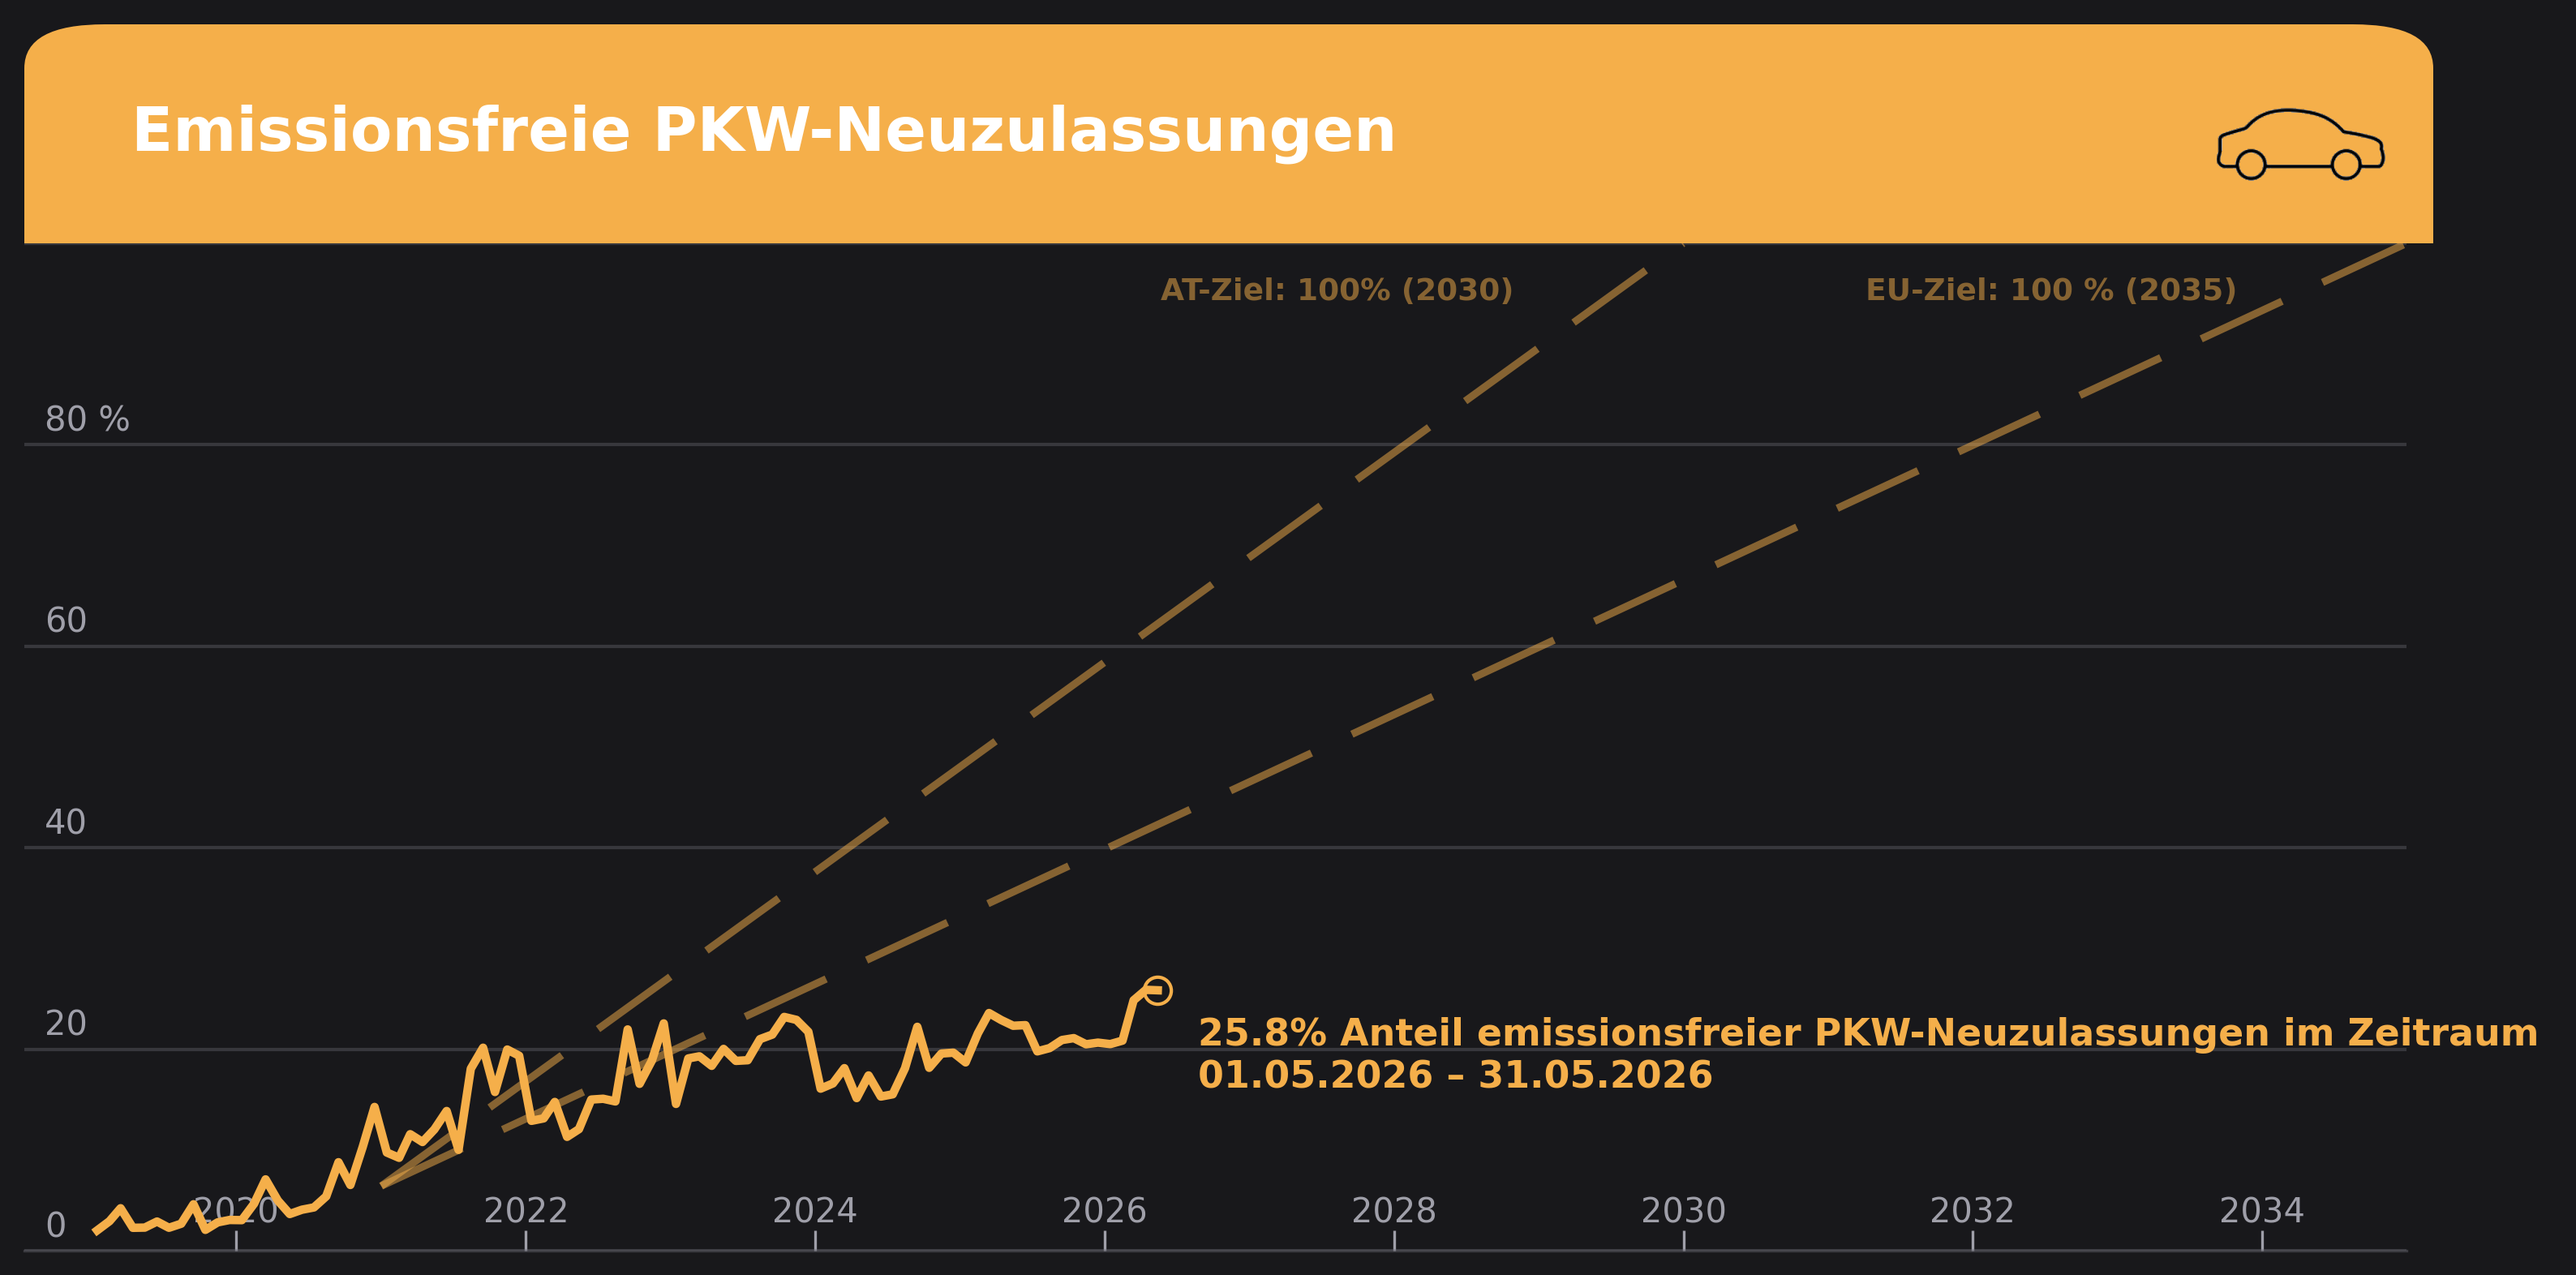
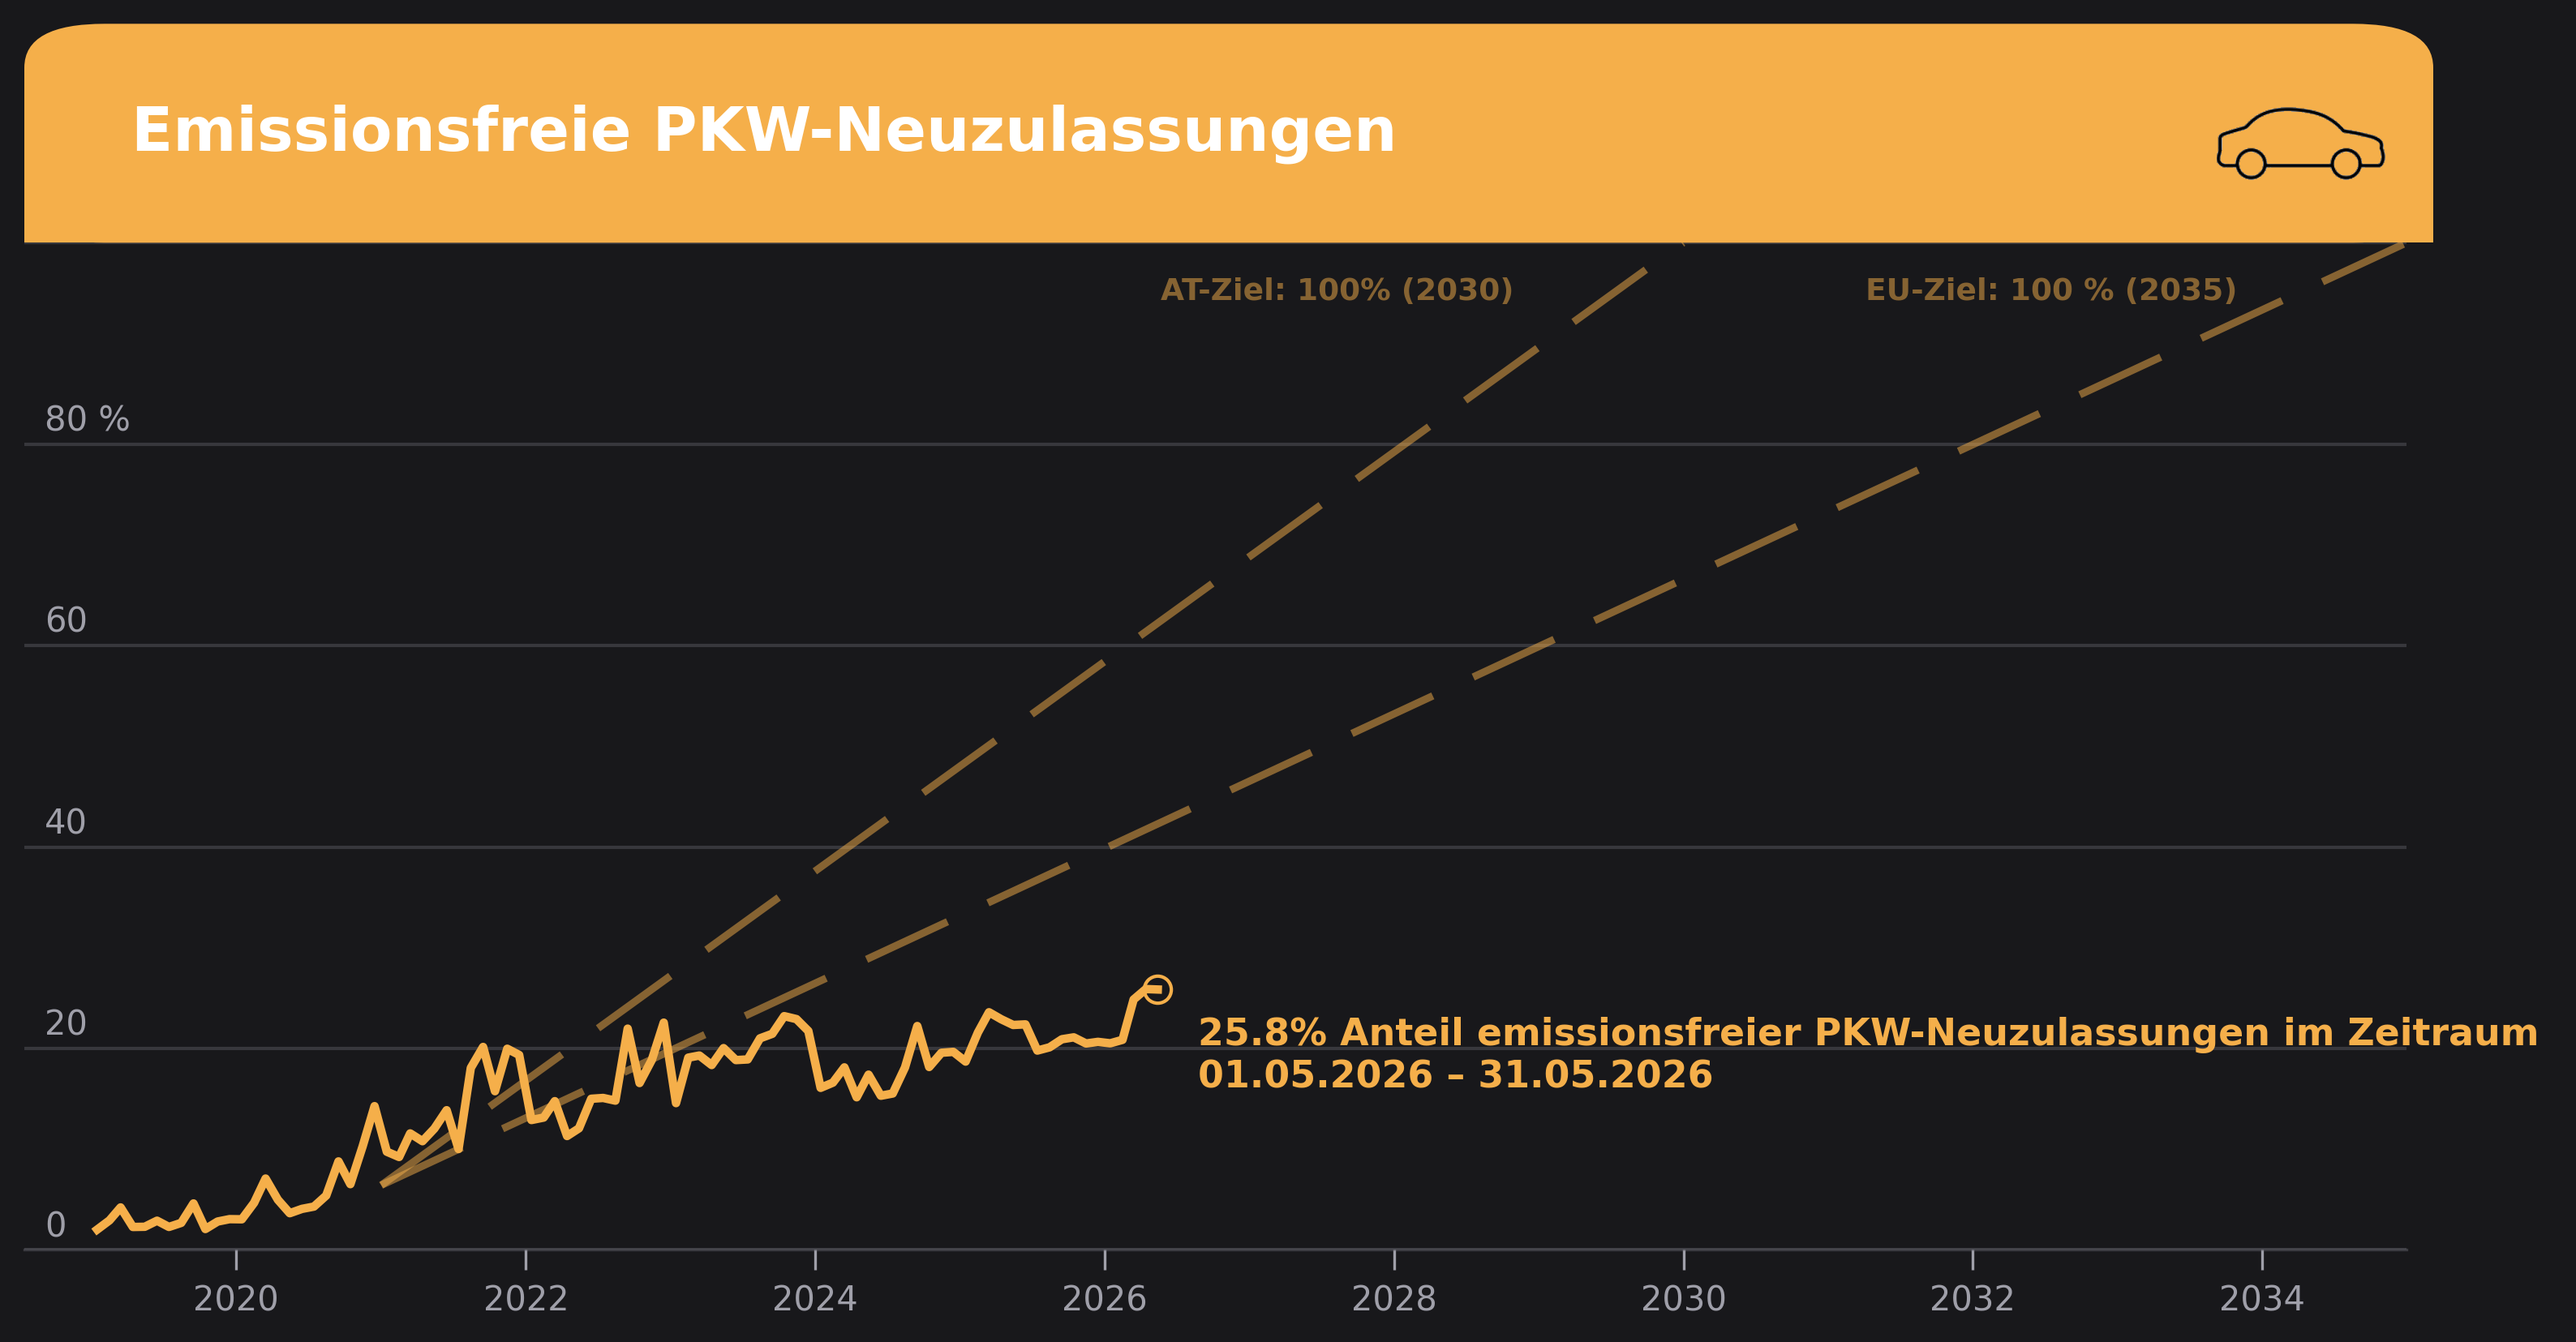
Change x-axis label position

diff --git a/src/05_plot_graph.py b/src/05_plot_graph.py
@@ -152,11 +152,11 @@ def style_kd_axis(ax):
     ax.spines["bottom"].set_alpha(0.4)
 
     # Positions values of axis label (f.ex. 20%, 40 %)
-    ax.tick_params(axis="x", colors=KD_MUTED, direction="in", length=6, pad=-6)
+    ax.tick_params(axis="x", colors=KD_MUTED, direction="out", length=6, pad=4)
     ax.tick_params(axis="y", colors=KD_MUTED, length=0, pad=-6)
 
     for label in ax.get_xticklabels():
-        label.set_verticalalignment("bottom")
+        label.set_verticalalignment("top")
 
     for label in ax.get_yticklabels():
         label.set_horizontalalignment("left")
